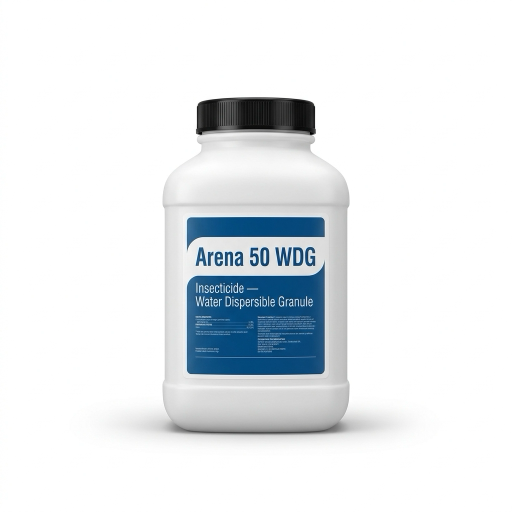
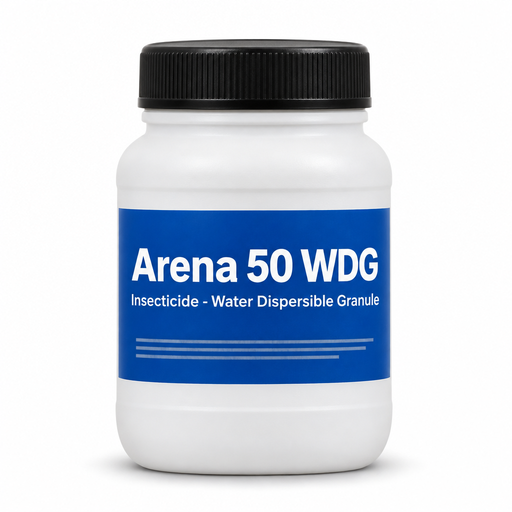
Product pictures: remake the 7 in use with gpt-image-2.6, drop 6 unused
The service-detail product pictures (estimate pages and service-sheet PDFs)
were made 2026-07-11 with Google's gemini-3-pro-image, so each carries
Google's SynthID watermark in its pixels. Owner 2026-11-25: "remake, make
sure we are using the best image model from chatgpt".

- The 7 pictures the code uses (Taurus SC, Scion, Tekko Pro, Trelona
  station, LESCO bag, Celsius WG, Arena 50 WDG) are remade from text only
  with gpt-image-2.6-sunburst at high quality (OpenAI's newest image model
  on /v1/models). No old picture went in as input, so no SynthID carries
  over. Each is resized to 512 px by sharp, which drops OpenAI's C2PA tag.
- The 6 files no code references (Bifen I/T, Dominion 2L, LESCO AM +
  Micros, SuffOil-X, surfactant, Talstar P) are deleted.
- Code notes now name the new model and the right folder.

Claude-Session: https://claude.ai/code/session_01LK1wx5dA9XucA9uRJW3BDY

diff --git a/server/services/estimate-service-details.js b/server/services/estimate-service-details.js
@@ -96,7 +96,7 @@ const COMPLIANCE_SECTION = {
 const SERVICE_DETAILS_COPY = {
   pest_control: {
     title: 'Pest Protection — Service Details',
-    // Stylized in-house renders (gemini-3-pro-image, 2026-07-11 — no
+    // Stylized in-house renders (gpt-image-2.6-sunburst, remade 2026-11-25 without the Gemini SynthID watermark — no
     // manufacturer photography/trade dress). Owner-picked set, cut to Taurus
     // 2026-10-26: the Talstar P render shows a brand Waves does not buy (owner
     // 2026-09-11: the bifenthrin bottle was Atticus Talak 7.9 F; owner 2026-11-18: now LESCO Crosscheck Plus), and the
@@ -740,8 +740,8 @@ const SERVICE_DETAILS_COPY = {
         'Waves Pest Control, LLC operates under Florida license JB351547 and is insured. Florida law requires a posted treatment notice at every qualifying lawn visit; your report carries the details behind the sign.',
       ],
     },
-    // Stylized in-house product renders (client/public/product-images) — the
-    // program's flagship products, generated 2026-07-11 (gemini-3-pro-image;
+    // Stylized in-house product renders (server/assets/product-images) — the
+    // program's flagship products, remade 2026-11-25 (gpt-image-2.6-sunburst, no SynthID;
     // no manufacturer photography, no copied trade dress). Products chosen
     // from the lawn protocols: Arena 50 WDG (insecticide rotation), LESCO
     // granular fert, Celsius WG
